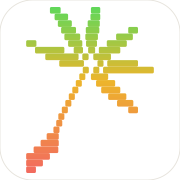
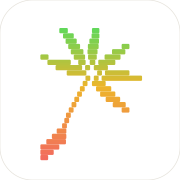
docs: center small-size marks by optical weight
The seed's weight is in its head, so box-centering made it look high in
the favicon, avatar, and standalone mark files, with tight margins at the
top and bottom. Center on 70 percent bounding box and 30 percent ink
weight, and size the tile so the seed fills about three quarters of it.
Document the rule in the brand guide.

Changed region(s): [[0.1389, 0.0278, 0.8611, 0.9722]]

diff --git a/docs/brand-guide.md b/docs/brand-guide.md
@@ -134,7 +134,10 @@ One rule drives every asset, so the lockup looks the same everywhere:
 - **Horizontal:** centered halfway between the bounding-box center and the ink-weight center.
   The mark is sparse on its left, so a pure box-center looks left-heavy.
 - **Vertical:** the middle of the capital D sits on the canvas center line.
-- **Mark alone:** centered halfway between box center and ink-weight center on both axes.
+- **Mark alone, favicon, and avatar:** centered 70% on the bounding box and 30% on the
+  ink-weight center, on both axes. The seed's weight is in its head, so a pure box center looks
+  low and a full weight center looks high. The tile is sized so the seed fills about three
+  quarters of it, which leaves proportionate margins on all four sides.
 - **Transparent files** (`*-ink`, `*-light`) are cropped to the artwork with equal padding, so
   they are box-centered by construction. They keep the same wordmark offset.
 
